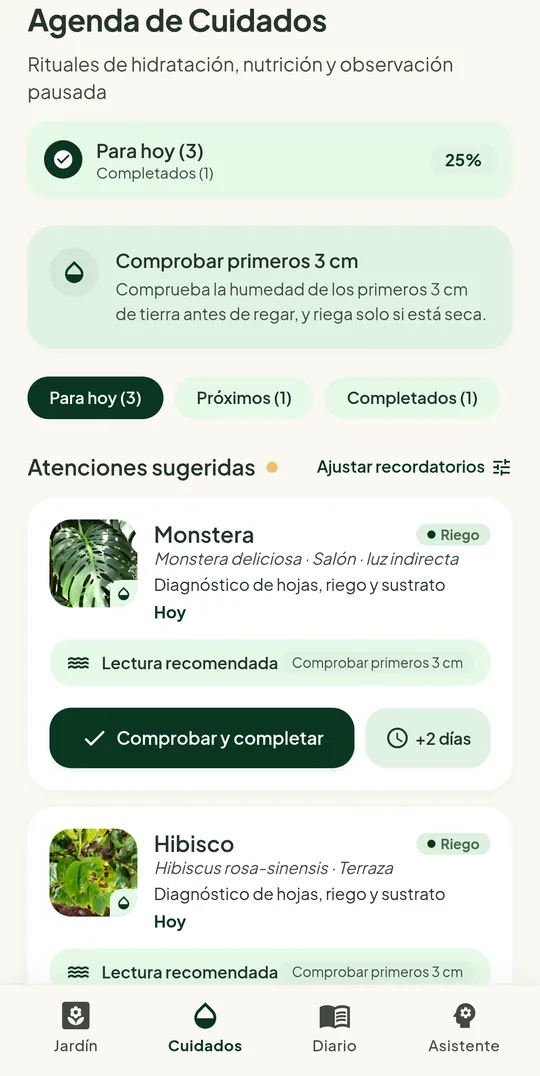
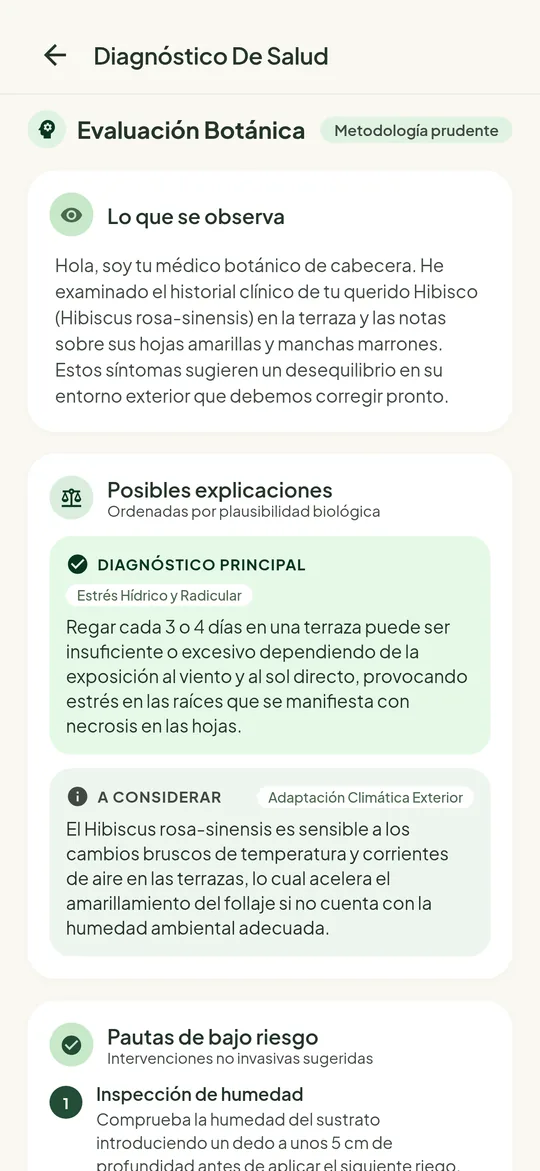
Add PlantCare AI screenshots

diff --git a/src/content/projects/en/plantcare-journal.md b/src/content/projects/en/plantcare-journal.md
@@ -7,7 +7,7 @@ platforms: [android]
 logo: /images/plantcare-icon.svg
 ogImage: /images/plantcare-icon-512.png
 icon: potted_plant
-screenshots: [/images/plantcare-1.webp, /images/plantcare-2.webp, /images/plantcare-3.webp]
+screenshots: [/images/plantcare-1.webp, /images/plantcare-2.webp, /images/plantcare-3.webp, /images/plantcare-4.webp]
 tags: [Expo, React Native, Google Gemini]
 privacyUrl: /plantcare/privacy/#en
 featured: true

diff --git a/src/content/projects/es/plantcare-journal.md b/src/content/projects/es/plantcare-journal.md
@@ -7,7 +7,7 @@ platforms: [android]
 logo: /images/plantcare-icon.svg
 ogImage: /images/plantcare-icon-512.png
 icon: potted_plant
-screenshots: [/images/plantcare-1.webp, /images/plantcare-2.webp, /images/plantcare-3.webp]
+screenshots: [/images/plantcare-1.webp, /images/plantcare-2.webp, /images/plantcare-3.webp, /images/plantcare-4.webp]
 tags: [Expo, React Native, Google Gemini]
 privacyUrl: /plantcare/privacy/#es
 featured: true
